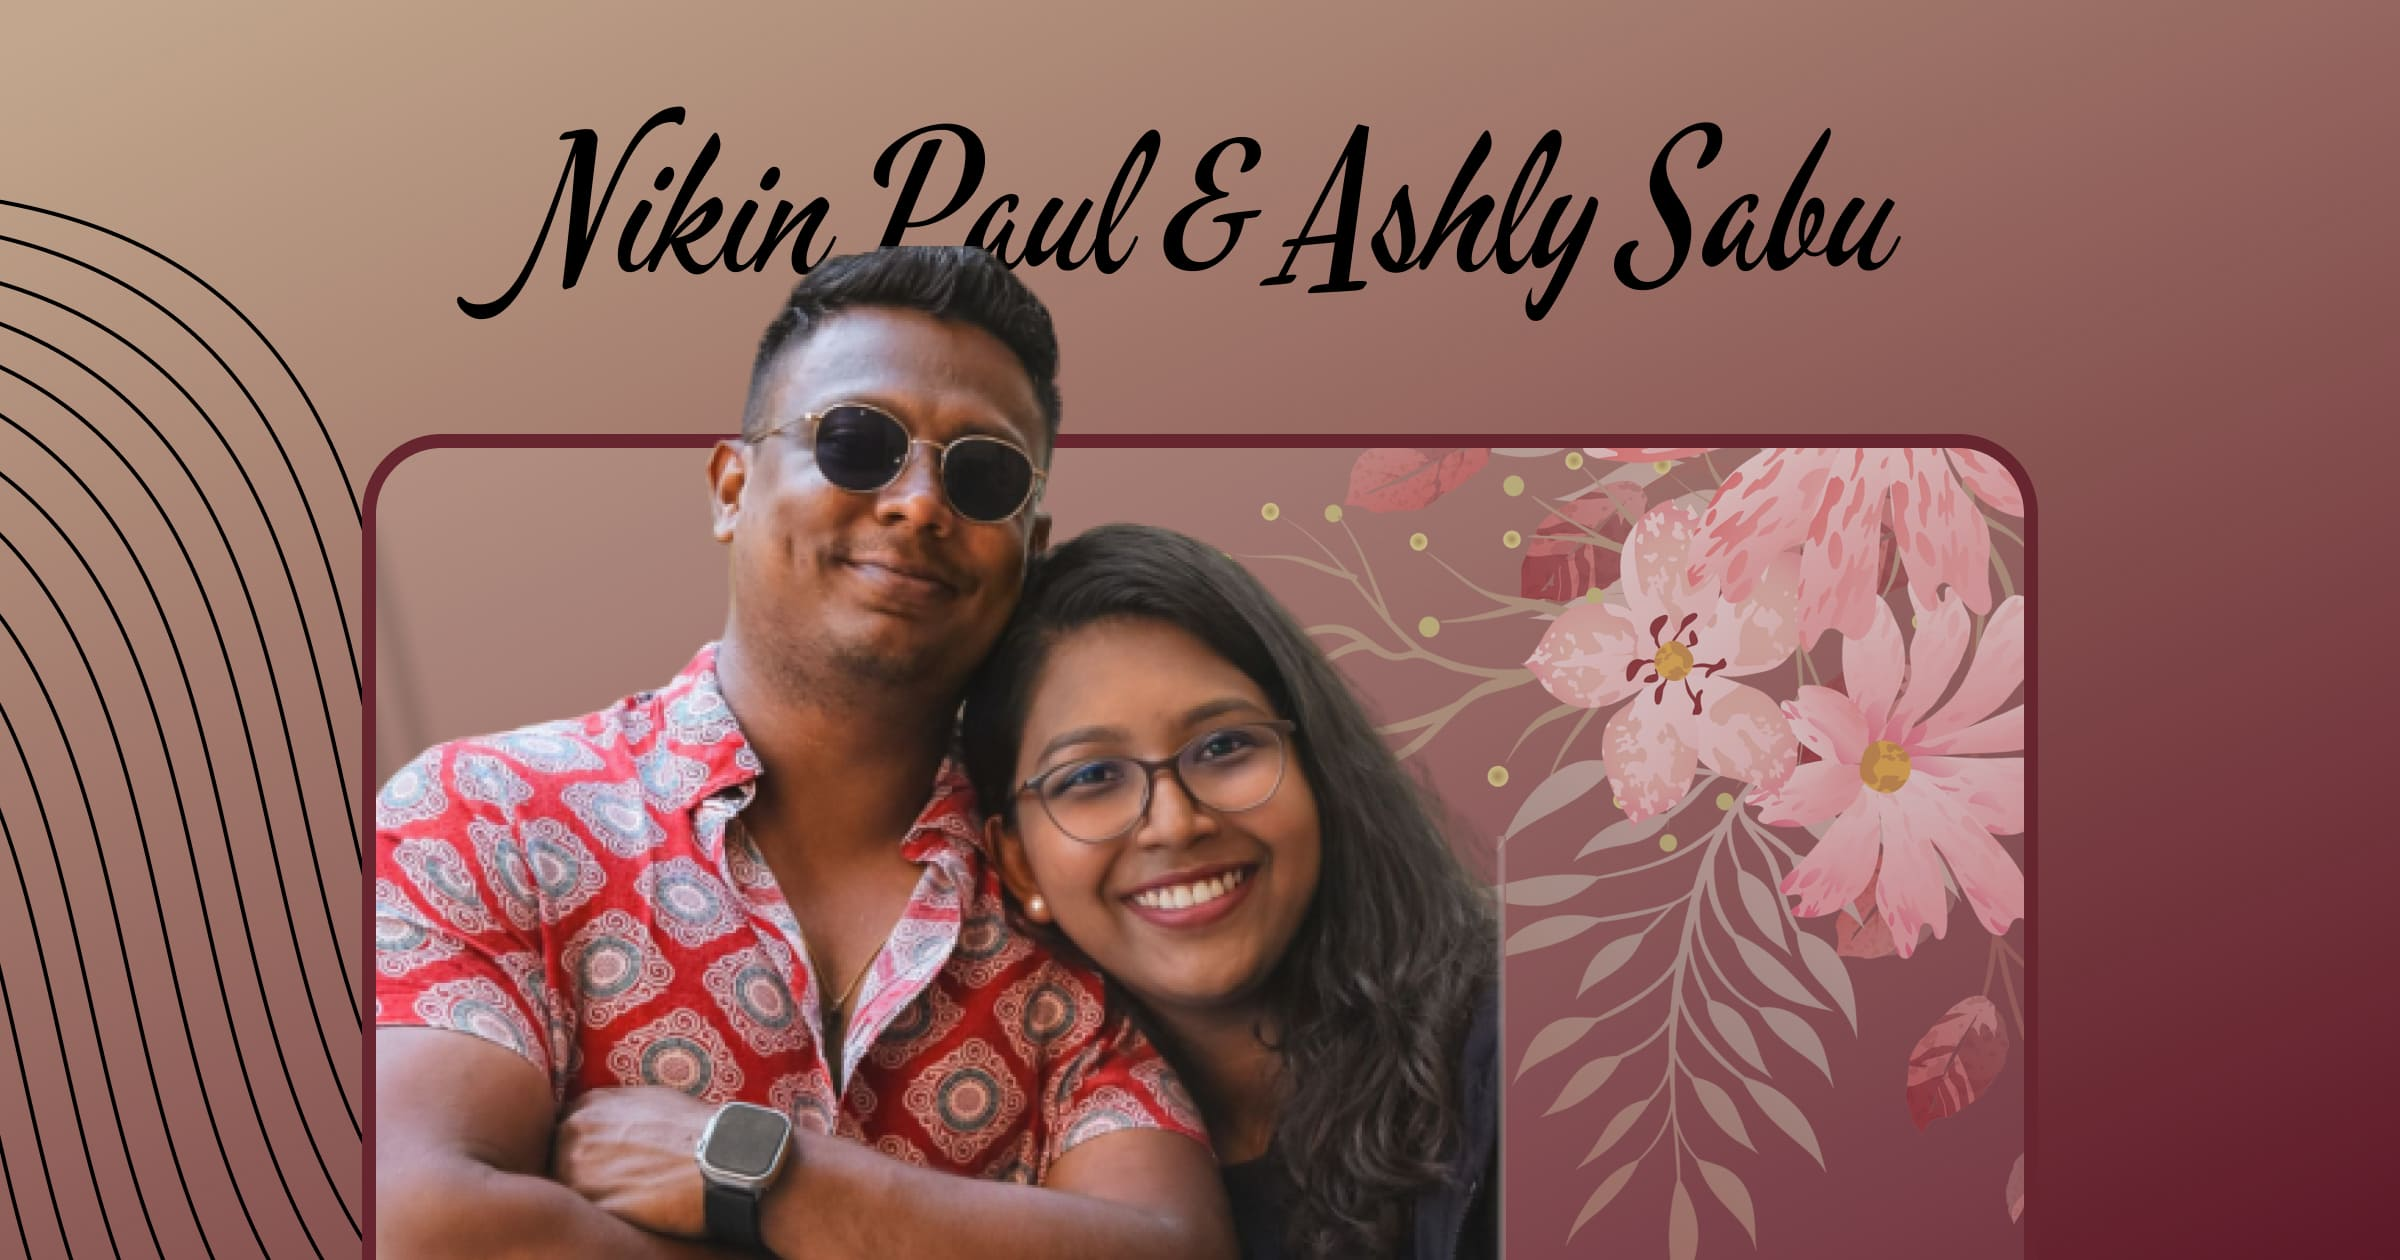
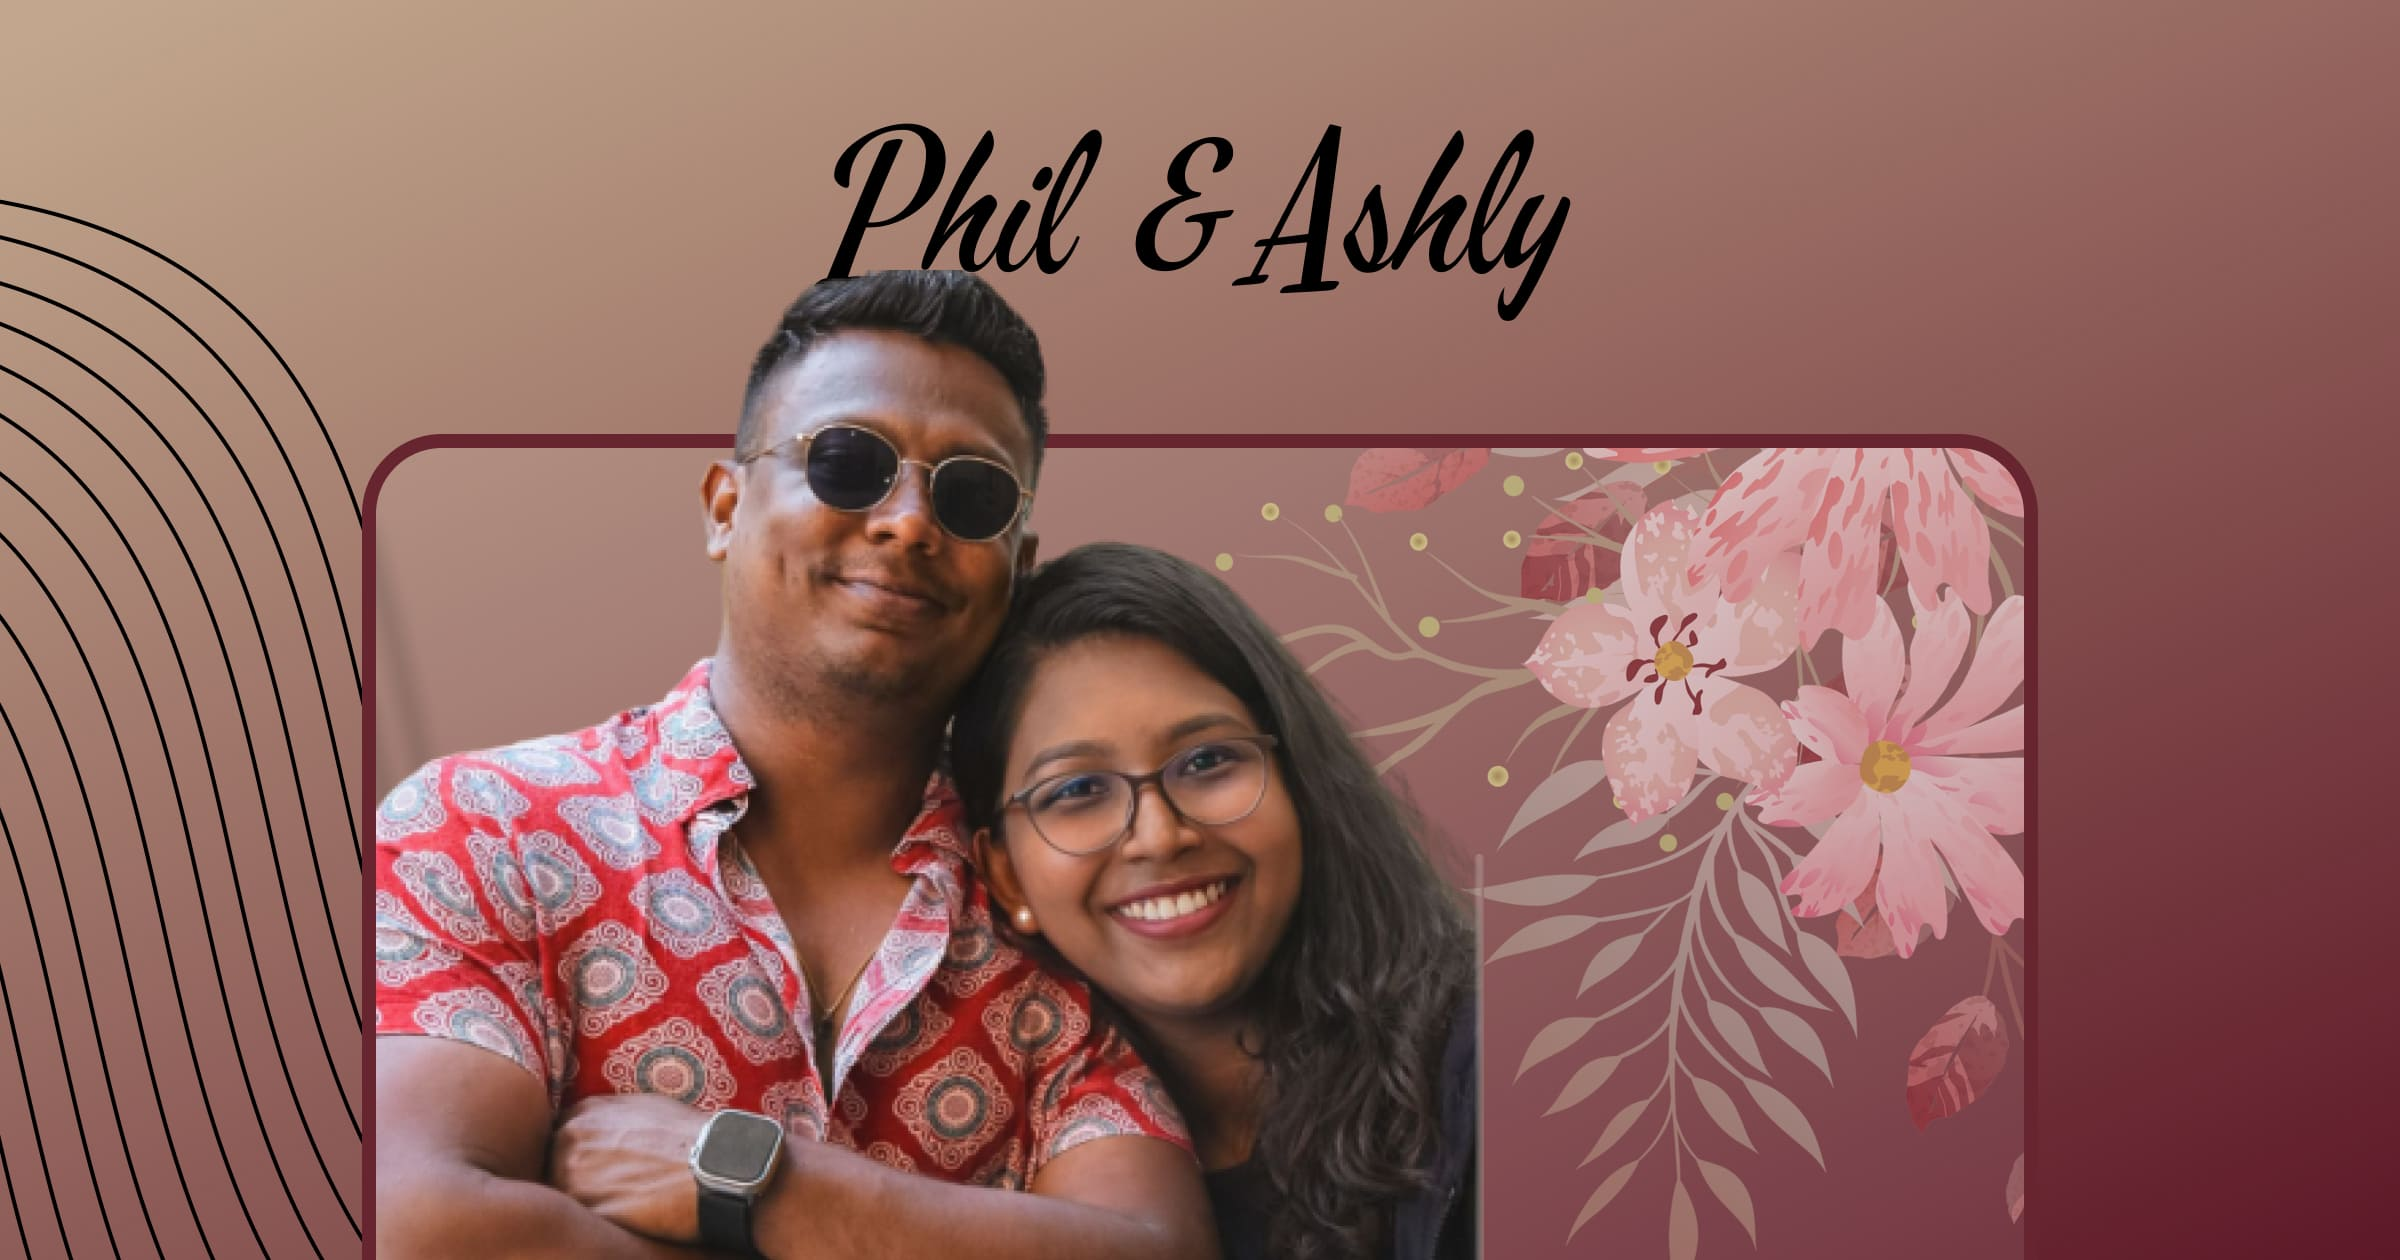
Other Updates in the nikin

Changed region(s): [[0.1562, 0.0929, 0.8125, 1.0], [0.1875, 0.2167, 0.2188, 0.2476]]

diff --git a/src/app/invite/nikin-ashly/page.js b/src/app/invite/nikin-ashly/page.js
@@ -14,7 +14,7 @@ export const metadata = {
     "Phil and Ashly are getting married and joyfully invite you to celebrate their wedding.",
   robots: "noindex, nofollow",
   openGraph: {
-    title: "Nikin and Ashly Wedding Invitation | iinve",
+    title: "Phil and Ashly Wedding Invitation | iinve",
     description:
       "Phil and Ashly are getting married and joyfully invite you to celebrate their wedding.",
     images: [
